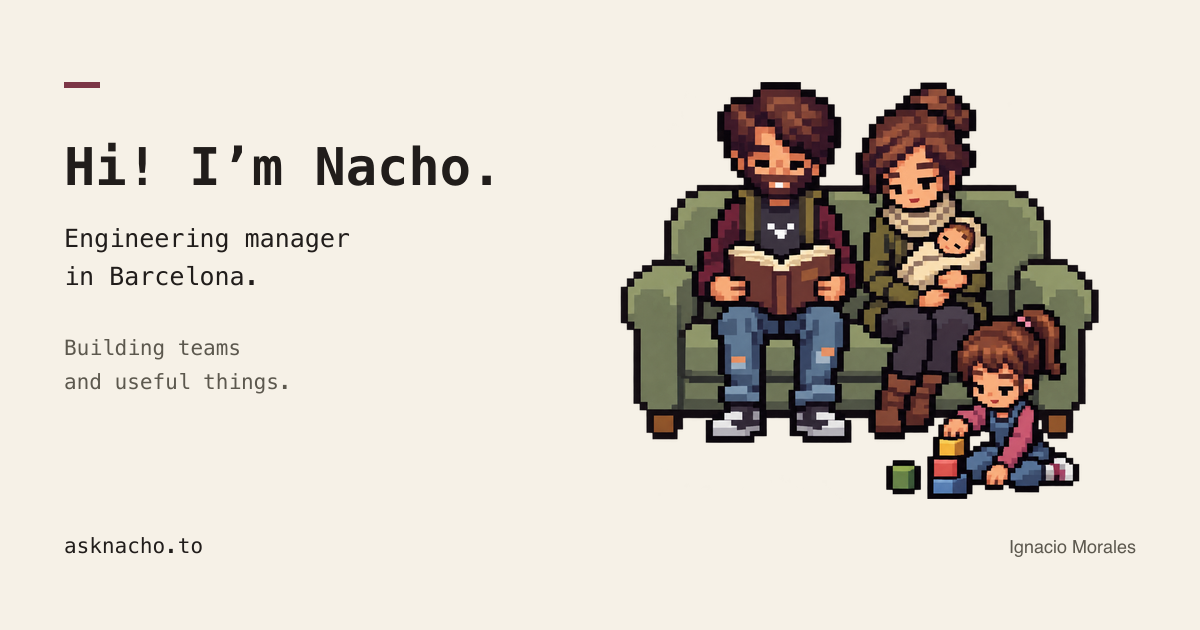
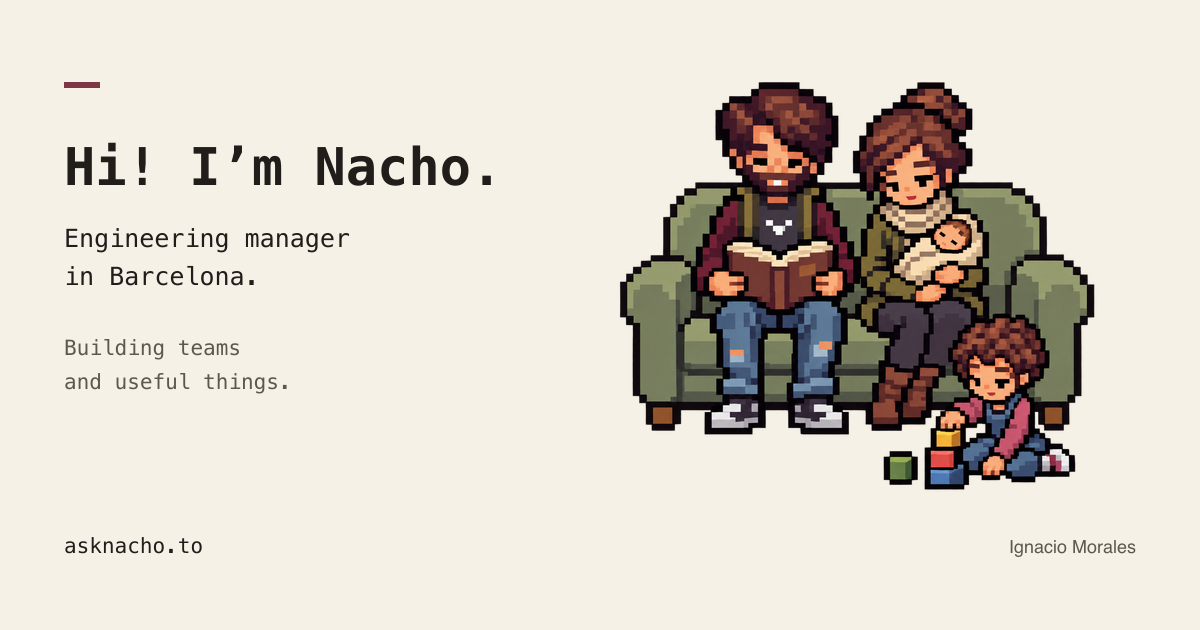
Update sharing preview with daughter’s curly hair

Changed region(s): [[0.5242, 0.1206, 0.925, 0.8143]]

diff --git a/index.html b/index.html
@@ -12,14 +12,14 @@
   <meta property="og:url" content="https://asknacho.to/" />
   <meta property="og:title" content="Ignacio Morales · Engineering Manager" />
   <meta property="og:description" content="Engineering manager in Barcelona. Building teams and useful things." />
-  <meta property="og:image" content="https://asknacho.to/assets/social-card.png" />
+  <meta property="og:image" content="https://asknacho.to/assets/social-card.png?v=short-curls" />
   <meta property="og:image:width" content="1200" />
   <meta property="og:image:height" content="630" />
   <meta property="og:image:alt" content="Pixel art of Nacho reading with his family; engineering manager in Barcelona" />
   <meta name="twitter:card" content="summary_large_image" />
   <meta name="twitter:title" content="Ignacio Morales · Engineering Manager" />
   <meta name="twitter:description" content="Engineering manager in Barcelona. Building teams and useful things." />
-  <meta name="twitter:image" content="https://asknacho.to/assets/social-card.png" />
+  <meta name="twitter:image" content="https://asknacho.to/assets/social-card.png?v=short-curls" />
   <meta name="twitter:image:alt" content="Pixel art of Nacho reading with his family; engineering manager in Barcelona" />
   <link rel="stylesheet" href="assets/share-ready.css?v=random-instrument" />
   <link rel="preconnect" href="https://fonts.googleapis.com" />
